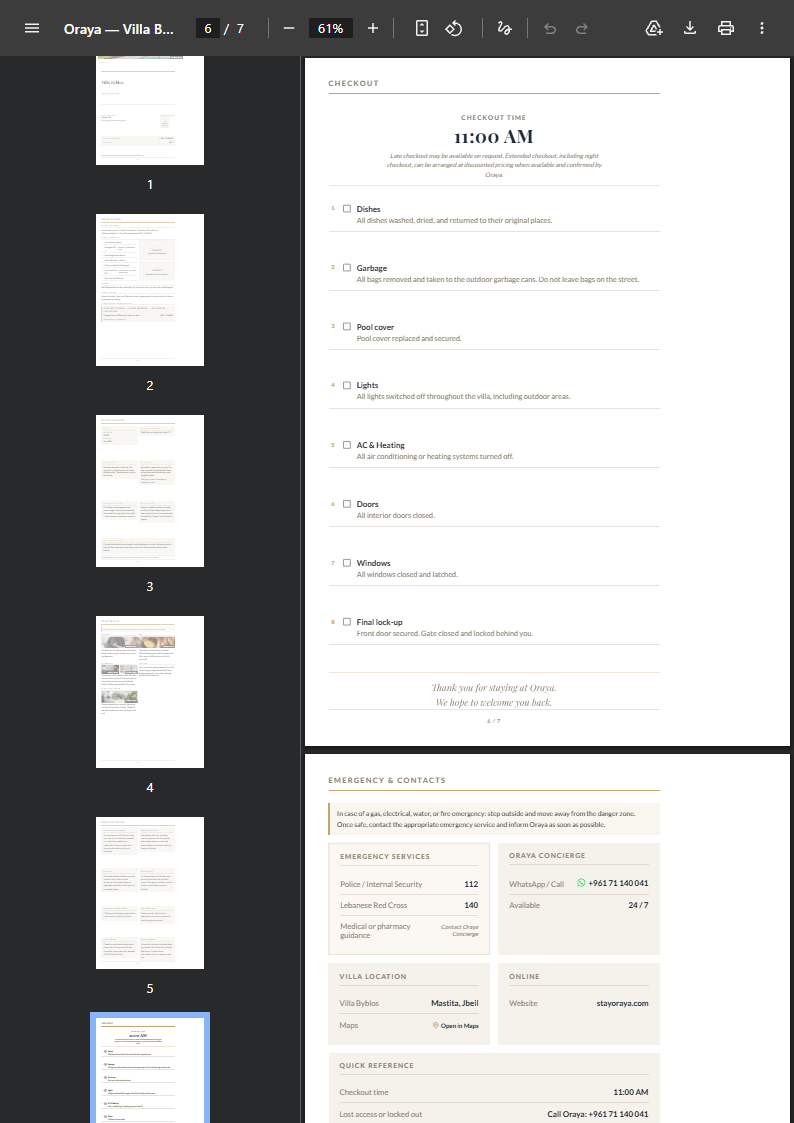
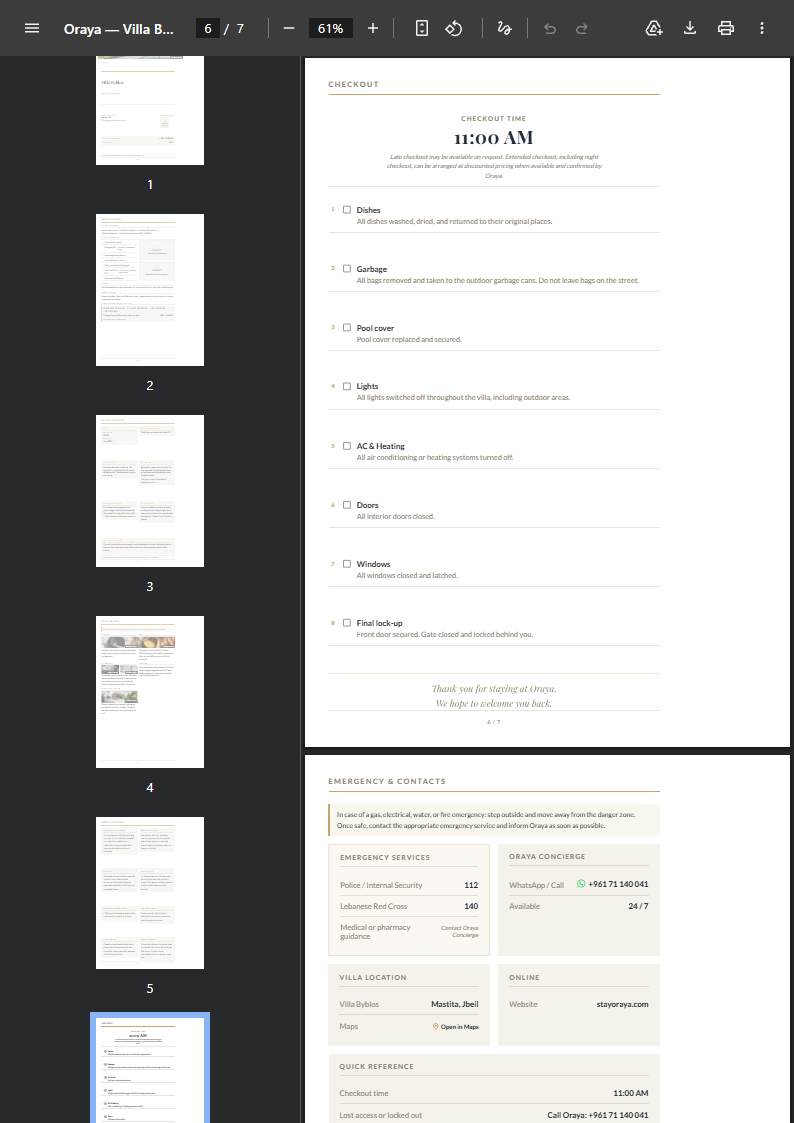
Welcome guide: fix hero full-bleed in PDF — add flex-shrink:0
Root cause: .pp-hero is a flex item inside .print-page (flex column).
In Puppeteer PDF mode, flex-shrink:1 (default) collapses the item to
the container's content width (572px), overriding width:620px !important.
The negative-margin bleed expansion that works in a browser does not
apply to flex children in Puppeteer's PDF renderer.

Fix: flex-shrink:0 !important prevents Puppeteer from shrinking the
hero. Combined with width:620px !important and the existing negative
margins from main CSS (margin:-36px -24px 0), the hero now spans the
full 620px page width edge-to-edge in the PDF, matching the HTML.

diff --git a/docs/design/phase-16c/welcome-guide/oraya-print-export.css b/docs/design/phase-16c/welcome-guide/oraya-print-export.css
@@ -76,15 +76,19 @@ body {
 
 
 /* ── 5. HERO FULL-BLEED FIX ────────────────────────────────────────
-   .pp-hero uses margin: -36px -40px 0 to bleed past the page padding.
-   In a regular browser this resolves correctly to 620px wide.
-   In Puppeteer PDF mode the negative-margin width expansion misfires
-   (renders ~484px wide, leaving a gap on the right).
-   Fix: pin the hero explicitly to page width and clear the auto cap.
+   .pp-hero is a flex item inside .print-page (flex column). In a
+   regular browser, the block formatting context treats negative margins
+   on a flex child the same as on a block, expanding the item to 620px.
+   In Puppeteer PDF mode:
+     (a) The negative-margin width expansion is ignored — the item
+         defaults to the container's content width (572px).
+     (b) flex-shrink:1 (default) further collapses it if it overflows.
+   Fix: force the exact page width AND prevent any flex shrinking.
 ───────────────────────────────────────────────────────────────── */
 .pp-hero {
-  width:     620px !important;
-  max-width: none  !important;
+  width:        620px !important;
+  max-width:    none  !important;
+  flex-shrink:  0     !important;
 }
 
 
